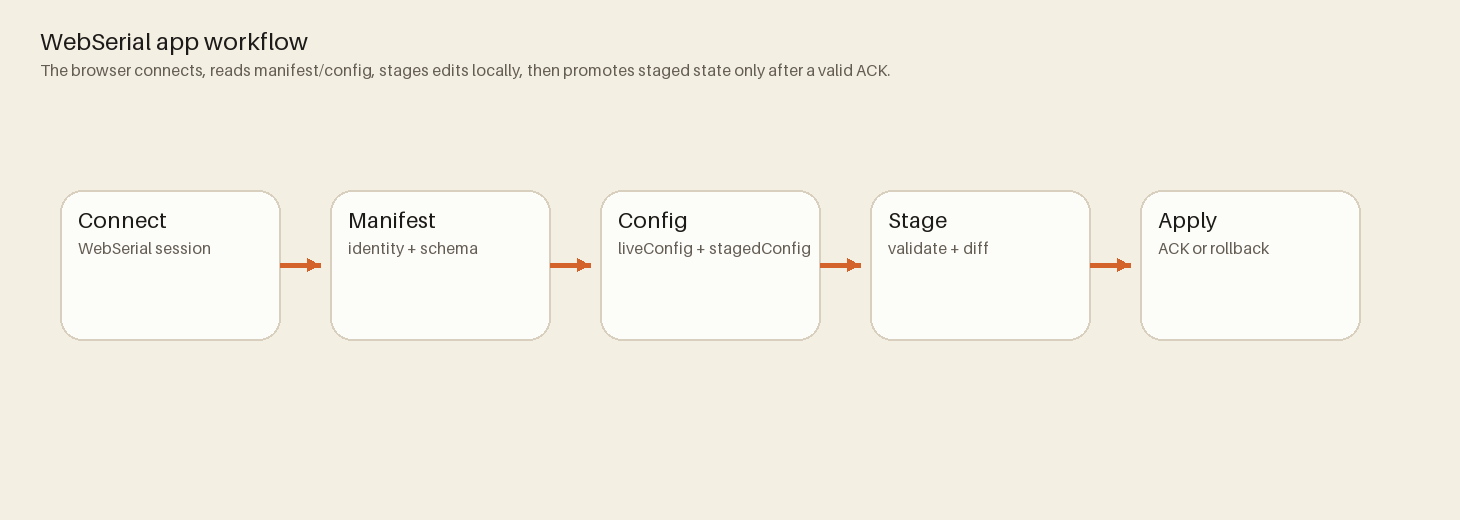
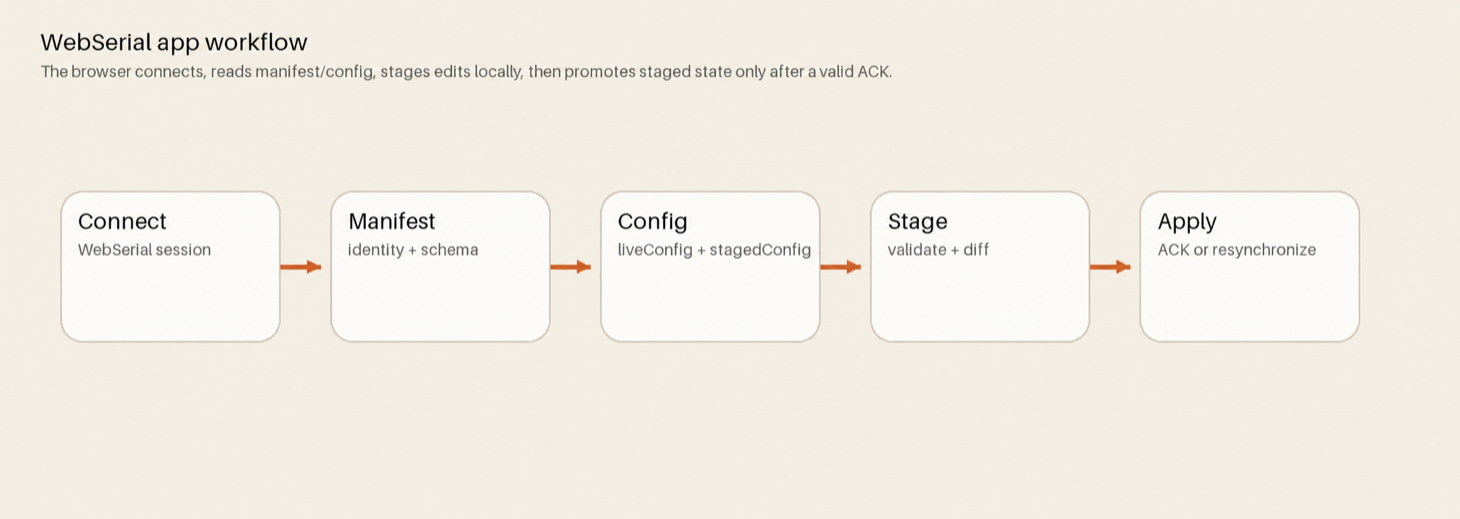
update Bridge failure protocol

diff --git a/App/runtime/bridge_session_runtime.js b/App/runtime/bridge_session_runtime.js
@@ -22,6 +22,7 @@ export function createBridgeSessionRuntime({
   let localDraftGeneration = 0;
   let submittedGeneration = 0;
   let acknowledgedGeneration = 0;
+  let newestLocalDraft = null;
   let eventReconnectTimer = null;
   let eventReconnectAttempt = 0;
   let eventsWanted = false;
@@ -48,11 +49,17 @@ export function createBridgeSessionRuntime({
   }
 
   function syncCachedSession() {
+    // Bridge snapshots can acknowledge an older draft while the browser has a
+    // newer edit queued. Keep that local intent intact until its generation
+    // has reached Bridge, while still accepting live-state/readback updates.
+    const preserveNewerLocalDraft = localDraftGeneration > acknowledgedGeneration;
     configSession.syncFromSession({
       ...bridgeSessionCache,
       liveConfig: bridgeSessionCache?.liveConfig,
-      stagedConfig: bridgeSessionCache?.stagedConfig,
-      dirty: bridgeSessionCache?.dirty
+      stagedConfig: preserveNewerLocalDraft
+        ? newestLocalDraft
+        : bridgeSessionCache?.stagedConfig,
+      dirty: preserveNewerLocalDraft ? true : bridgeSessionCache?.dirty
     });
     configSession.broadcastConfig({ persist: false });
   }
@@ -86,10 +93,7 @@ export function createBridgeSessionRuntime({
       setSchemaSource(sessionPayload.schemaSource);
     }
 
-    if (sessionPayload.liveConfig || sessionPayload.stagedConfig) {
-      configSession.syncFromSession(sessionPayload);
-      configSession.broadcastConfig({ persist: false });
-    }
+    if (sessionPayload.liveConfig || sessionPayload.stagedConfig) syncCachedSession();
 
     if (emitConnectedConfig) {
       emit('connected', getConnectedPayload());
@@ -125,13 +129,15 @@ export function createBridgeSessionRuntime({
       while (acknowledgedGeneration < localDraftGeneration) {
         const generation = localDraftGeneration;
         submittedGeneration = generation;
-        receipt = await ensureClient().stageConfig(clone(configSession.getStagedConfig()), {
+        const draft = clone(newestLocalDraft ?? configSession.getStagedConfig());
+        receipt = await ensureClient().stageConfig(draft, {
           expectedSessionRevision: bridgeSessionCache?.sessionRevision
         });
         if (Number.isFinite(Number(receipt?.sessionRevision))) {
           bridgeSessionCache = { ...(bridgeSessionCache ?? {}), sessionRevision: receipt.sessionRevision };
         }
         acknowledgedGeneration = generation;
+        if (acknowledgedGeneration === localDraftGeneration) newestLocalDraft = null;
       }
       return receipt;
     })()
@@ -148,6 +154,7 @@ export function createBridgeSessionRuntime({
   function scheduleStageSync({ active = false } = {}) {
     if (!active) return;
     localDraftGeneration += 1;
+    newestLocalDraft = clone(configSession.getStagedConfig());
     if (bridgeStageSyncTimer) clearTimeout(bridgeStageSyncTimer);
     bridgeStageSyncTimer = setTimeout(() => {
       void flushStageSync({ active: true }).catch((err) => {
@@ -303,6 +310,10 @@ export function createBridgeSessionRuntime({
     cancelStageSync();
     closeEvents();
     bridgeSessionCache = null;
+    newestLocalDraft = null;
+    localDraftGeneration = 0;
+    submittedGeneration = 0;
+    acknowledgedGeneration = 0;
   }
 
   return {

diff --git a/bridge/test/app_contract.test.js b/bridge/test/app_contract.test.js
@@ -16,6 +16,7 @@ class FakeSerialPort extends EventEmitter {
     this.writes = [];
     this.parser = null;
     this.device = FakeSerialPort.device;
+    FakeSerialPort.lastInstance = this;
     this.unsubscribe = this.device.on('line', (line) => {
       if (this.parser) this.parser.emit('data', line);
     });
@@ -28,8 +29,15 @@ class FakeSerialPort extends EventEmitter {
   }
 
   write(data) {
-    this.writes.push(String(data));
-    this.device.receiveLine(String(data));
+    const line = String(data);
+    this.writes.push(line);
+    if (line.startsWith('SET_ALL ')) {
+      FakeSerialPort.setAllWrites += 1;
+      if (FakeSerialPort.failSetAllWriteAt === FakeSerialPort.setAllWrites) {
+        throw new Error('simulated partial SET_ALL write failure');
+      }
+    }
+    this.device.receiveLine(line);
   }
 
   close(cb) {
@@ -38,6 +46,9 @@ class FakeSerialPort extends EventEmitter {
     this.emit('close');
   }
 }
+FakeSerialPort.failSetAllWriteAt = null;
+FakeSerialPort.setAllWrites = 0;
+FakeSerialPort.lastInstance = null;
 
 class FakeUdpPort extends EventEmitter {
   constructor() {
@@ -212,6 +223,30 @@ async function run() {
     false,
     'device ACK should clear dirty state after apply',
   );
+
+  const partiallyWrittenDraft = JSON.parse(
+    JSON.stringify(service.getState().deviceSession.stagedConfig),
+  );
+  partiallyWrittenDraft.slots[1].data1 = 101;
+  await service.stageDeviceConfig(partiallyWrittenDraft);
+  const serial = FakeSerialPort.lastInstance;
+  FakeSerialPort.setAllWrites = 0;
+  FakeSerialPort.failSetAllWriteAt = 2;
+  await assert.rejects(
+    () => service.applyDeviceConfig(),
+    (error) => error?.code === 'apply_transport_error',
+    'a partial Bridge SET_ALL write should reject as a transport error',
+  );
+  FakeSerialPort.failSetAllWriteAt = null;
+  const abortIndex = serial.writes.lastIndexOf('ABORT_SET_ALL\n');
+  const failedChunkIndex = serial.writes.findLastIndex((line) => line.startsWith('SET_ALL '));
+  assert.equal(
+    abortIndex > failedChunkIndex,
+    true,
+    'the owning Apply must write ABORT_SET_ALL immediately instead of deferring it',
+  );
+  await waitFor(() => !service.getState().deviceSession?.lastApplyResult ||
+    service.getState().deviceSession.lastApplyResult.status !== 'pending');
 
   const nativeTransport = {
     protocol: 'native',

diff --git a/bridge/lib/device/session.js b/bridge/lib/device/session.js
@@ -120,6 +120,7 @@ function extractFirmwareIdentity(manifest) {
 
 function createDeviceSession({
   sendLine,
+  abortBulkFrame = () => sendLine('ABORT_SET_ALL'),
   onStateChange = () => {},
   onStructuredEvent = () => {},
   nextSeq = () => 1,
@@ -127,6 +128,9 @@ function createDeviceSession({
 } = {}) {
   if (typeof sendLine !== 'function') {
     throw new Error('device session requires sendLine');
+  }
+  if (typeof abortBulkFrame !== 'function') {
+    throw new Error('device session abortBulkFrame must be a function');
   }
 
   const events = new EventEmitter();
@@ -819,6 +823,17 @@ function createDeviceSession({
   async function stageConfig(nextConfig, { expectedSessionRevision } = {}) {
     await ensureAuthority();
     requireSessionRevision(expectedSessionRevision);
+    if (applyPending || uncertainApply) {
+      throw createSessionError(
+        'apply_outcome_unresolved',
+        'Cannot replace the staged config until the transmitted Apply outcome has been resynchronized.',
+        {
+          checksum: applyPending?.checksum ?? uncertainApply?.checksum,
+          seq: applyPending?.seq ?? uncertainApply?.seq,
+        },
+        409,
+      );
+    }
     if (!state.manifest) {
       throw createSessionError(
         'device_not_ready',
@@ -1010,7 +1025,10 @@ function createDeviceSession({
           }
         } catch (error) {
           try {
-            sendLine('ABORT_SET_ALL');
+            // This is the owning Apply transaction releasing its own partial
+            // frame. Bridge implementations may bypass their public live
+            // command queue here without allowing another client to abort it.
+            abortBulkFrame();
           } catch {
             // A disconnected transport cannot receive the abort; firmware's
             // autonomous assembler timeout clears the partial frame.

diff --git a/bridge/lib/bridge_service.js b/bridge/lib/bridge_service.js
@@ -229,6 +229,10 @@ function createBridgeService(initialConfig = {}, injected = {}) {
 
   const deviceSession = createDeviceSession({
     sendLine: (line) => sendLine(line),
+    // Only the device session's owning Apply transaction may use this path.
+    // Public sendLine() retains its Apply-exclusivity guard, so an unrelated
+    // client cannot inject ABORT_SET_ALL into another client's transaction.
+    abortBulkFrame: () => writeSerialImmediately('ABORT_SET_ALL'),
     pushLog,
     nextSeq: () => {
       deviceSeq += 1;
@@ -819,13 +823,19 @@ function createBridgeService(initialConfig = {}, injected = {}) {
   }
 
   // Send one native line to firmware, surfacing an immediate error if serial is down.
-  function sendLine(line) {
+  function writeSerialImmediately(line) {
     const normalized = `${String(line).trim()}\n`;
     if (!serial || typeof serial.write !== 'function') {
       const error = new Error('serial not connected');
       setState({ lastError: error.message });
       throw error;
     }
+    serial.write(normalized);
+    return normalized;
+  }
+
+  function sendLine(line) {
+    const normalized = `${String(line).trim()}\n`;
     const command = normalized.trim();
     const safeRead = command.startsWith('GET_') || command === 'HELLO';
     const transactionFrame = command.startsWith('SET_ALL ');
@@ -836,8 +846,7 @@ function createBridgeService(initialConfig = {}, injected = {}) {
       else pushLog('warn', 'dropping live serial command while Apply queue is full');
       return normalized;
     }
-    serial.write(normalized);
-    return normalized;
+    return writeSerialImmediately(command);
   }
 
   function flushDeferredLiveLines() {

diff --git a/App/tests/bridge_stage_generation.spec.js b/App/tests/bridge_stage_generation.spec.js
@@ -7,6 +7,7 @@ test('Bridge staging submits the newest draft when an edit arrives during an in-
   let staged = { slots: [{ value: 1 }] };
   const submissions = [];
   const resolvers = [];
+  const syncedSessions = [];
   const client = {
     stageConfig(config) {
       submissions.push(clone(config));
@@ -15,7 +16,7 @@ test('Bridge staging submits the newest draft when an edit arrives during an in-
   };
   const configSession = {
     getStagedConfig: () => staged,
-    syncFromSession() {},
+    syncFromSession(session) { syncedSessions.push(clone(session)); },
     broadcastConfig() {}
   };
   const runtime = createBridgeSessionRuntime({
@@ -41,6 +42,12 @@ test('Bridge staging submits the newest draft when an edit arrives during an in-
 
   staged = { slots: [{ value: 2 }] };
   runtime.scheduleStageSync({ active: true });
+  runtime.applyAuthoritativeSession({
+    liveConfig: { slots: [{ value: 0 }] },
+    stagedConfig: { slots: [{ value: 1 }] },
+    dirty: true
+  });
+  expect(syncedSessions.at(-1).stagedConfig).toEqual({ slots: [{ value: 2 }] });
   resolvers.shift()({ sessionRevision: 1 });
   await expect.poll(() => submissions.length).toBe(2);
   expect(submissions[1]).toEqual({ slots: [{ value: 2 }] });

diff --git a/bridge/test/device_session.test.js b/bridge/test/device_session.test.js
@@ -327,6 +327,25 @@ async function run() {
   }
 
   {
+    const harness = createHarness({ simulator: { ackDelayMs: 100 } });
+    await harness.session.handleOpen();
+    await waitFor(() => harness.session.getState().ready);
+    const staged = clone(harness.session.getState().stagedConfig);
+    staged.slots[2].data1 = 116;
+    await harness.session.stageConfig(staged);
+    const applyPromise = harness.session.applyStagedConfig({ timeoutMs: 1000 });
+    await waitFor(
+      () => harness.session.getState().lastApplyResult?.status === 'pending',
+    );
+    await assert.rejects(
+      () => harness.session.stageConfig(staged),
+      (error) => error?.code === 'apply_outcome_unresolved',
+      'staging must not replace the draft while Apply owns it',
+    );
+    await applyPromise;
+  }
+
+  {
     const harness = createHarness({ simulator: { ackDelayMs: 30 } });
     await harness.session.handleOpen();
     await waitFor(() => harness.session.getState().ready);

diff --git a/tools/generate_workflow_graphics.py b/tools/generate_workflow_graphics.py
@@ -418,7 +418,7 @@ def webserial_workflow() -> None:
         ("Manifest", "identity + schema"),
         ("Config", "liveConfig + stagedConfig"),
         ("Stage", "validate + diff"),
-        ("Apply", "ACK or rollback"),
+        ("Apply", "ACK or resynchronize"),
     ]
     x = 60
     y = 190

diff --git a/wiki/WebSerial-App.md b/wiki/WebSerial-App.md
@@ -3,7 +3,7 @@
 The browser configurator lives in `App/` and provides schema-validated editing against the firmware protocol.
 Canonical source: `App/README.md`
 
-![Workflow graphic showing the WebSerial app connect, manifest, config, stage, and apply or rollback steps.](assets/workflows/webserial-workflow-overview.png)
+![Workflow graphic showing the WebSerial app connect, manifest, config, stage, then Apply confirmation or resynchronization.](assets/workflows/webserial-workflow-overview.png)
 
 ## Architecture
 
@@ -29,7 +29,7 @@ Open `http://localhost:8000/`.
 3. Stage edits locally.
 4. Validate against schema.
 5. Apply and confirm checksum/ACK.
-6. Roll back automatically on mismatch/failure.
+6. Confirm the receipt and device readback; ambiguous outcomes enter resynchronization.
 
 ![Annotated configurator workbench showing the 42 live slots, selected-slot editor, Basic and Advanced mode switch, utility rail, and staged diff.](assets/ui/configurator-workbench-annotated.png)
 

diff --git a/wiki/System-Architecture.md b/wiki/System-Architecture.md
@@ -18,7 +18,7 @@ Canonical source: `README.md`
 4. Bridge converts telemetry to OSC/MIDI and forwards external commands back to firmware.
 5. Web app stages config, validates schema, and applies updates via serial protocol.
 
-![WebSerial workflow showing connection, manifest and schema discovery, configuration read, local staging, validation, and the Apply or Rollback decision.](assets/workflows/webserial-workflow-overview.png)
+![WebSerial workflow showing connection, manifest and schema discovery, configuration read, local staging, validation, then Apply confirmation or resynchronization.](assets/workflows/webserial-workflow-overview.png)
 
 ## Firmware runtime organization
 
